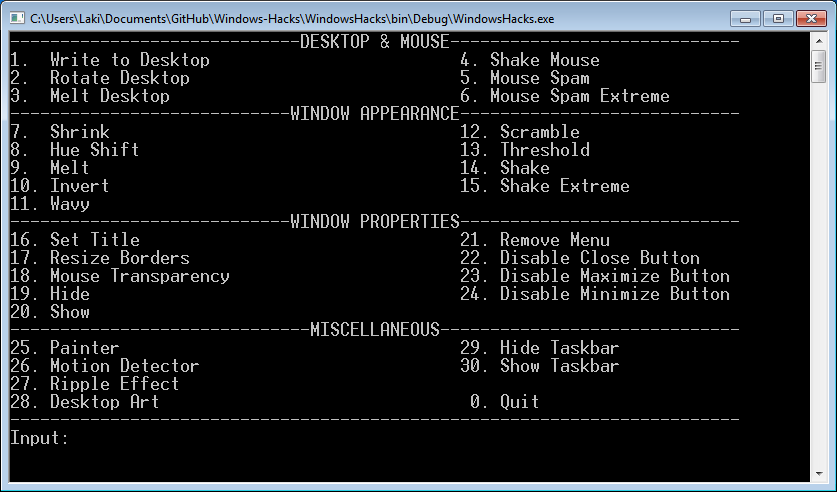
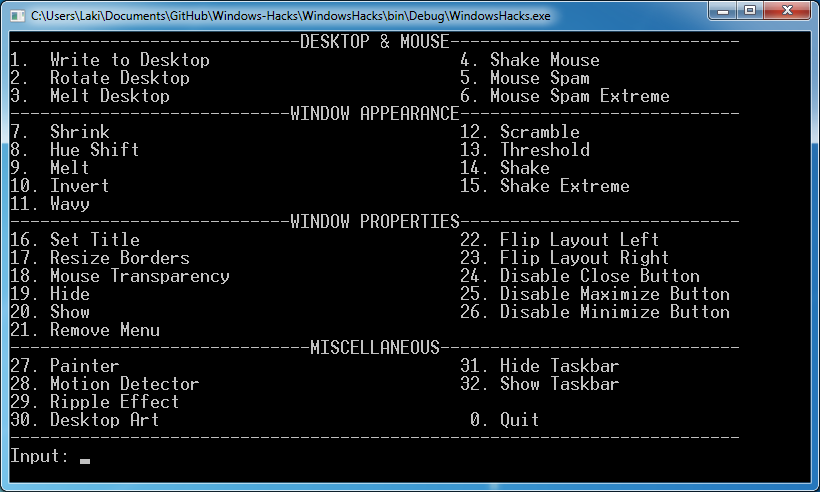
Added ability to flip the layout of a window

diff --git a/WindowsHacks/Program.cs b/WindowsHacks/Program.cs
@@ -37,15 +37,17 @@ namespace WindowsHacks
                 else if (input == 19) OtherFunctions.Hide();
                 else if (input == 20) OtherFunctions.Show();
                 else if (input == 21) OtherFunctions.RemoveMenu();
-                else if (input == 22) OtherFunctions.DisableClose();
-                else if (input == 23) OtherFunctions.DisableMaximize();
-                else if (input == 24) OtherFunctions.DisableMinimize();
-                else if (input == 25) Painter.Run();
-                else if (input == 26) MotionDetector.Run(30, MotionDetector.Quality.High);
-                else if (input == 27) RippleEffect.Run();
-                else if (input == 28) DesktopArt.Run();
-                else if (input == 29) WindowsAPI.Desktop.HideTaskBar();
-                else if (input == 30) WindowsAPI.Desktop.ShowTaskBar();
+                else if (input == 22) OtherFunctions.FlipLeft();
+                else if (input == 23) OtherFunctions.FlipRight();
+                else if (input == 24) OtherFunctions.DisableClose();
+                else if (input == 25) OtherFunctions.DisableMaximize();
+                else if (input == 26) OtherFunctions.DisableMinimize();
+                else if (input == 27) Painter.Run();
+                else if (input == 28) MotionDetector.Run(30, MotionDetector.Quality.High);
+                else if (input == 29) RippleEffect.Run();
+                else if (input == 30) DesktopArt.Run();
+                else if (input == 31) WindowsAPI.Desktop.HideTaskBar();
+                else if (input == 32) WindowsAPI.Desktop.ShowTaskBar();
                 else if (input == 0) break;
             }
         }
@@ -63,16 +65,17 @@ namespace WindowsHacks
             Console.WriteLine("10. Invert                                   15. Shake Extreme");
             Console.WriteLine("11. Wavy");
             Console.WriteLine("----------------------------WINDOW PROPERTIES----------------------------");
-            Console.WriteLine("16. Set Title                                21. Remove Menu");
-            Console.WriteLine("17. Resize Borders                           22. Disable Close Button");
-            Console.WriteLine("18. Mouse Transparency                       23. Disable Maximize Button");
-            Console.WriteLine("19. Hide                                     24. Disable Minimize Button");
-            Console.WriteLine("20. Show");
+            Console.WriteLine("16. Set Title                                22. Flip Layout Left");
+            Console.WriteLine("17. Resize Borders                           23. Flip Layout Right");
+            Console.WriteLine("18. Mouse Transparency                       24. Disable Close Button");
+            Console.WriteLine("19. Hide                                     25. Disable Maximize Button");
+            Console.WriteLine("20. Show                                     26. Disable Minimize Button");
+            Console.WriteLine("21. Remove Menu");
             Console.WriteLine("------------------------------MISCELLANEOUS------------------------------");
-            Console.WriteLine("25. Painter                                  29. Hide Taskbar");
-            Console.WriteLine("26. Motion Detector                          30. Show Taskbar");
-            Console.WriteLine("27. Ripple Effect");
-            Console.WriteLine("28. Desktop Art                               0. Quit");
+            Console.WriteLine("27. Painter                                  31. Hide Taskbar");
+            Console.WriteLine("28. Motion Detector                          32. Show Taskbar");
+            Console.WriteLine("29. Ripple Effect");
+            Console.WriteLine("30. Desktop Art                               0. Quit");
             Console.WriteLine("-------------------------------------------------------------------------");
         }
     }

diff --git a/WindowsHacks/OtherFunctions.cs b/WindowsHacks/OtherFunctions.cs
@@ -107,6 +107,18 @@ namespace WindowsHacks
             Window.Show(hWnd);
         }
 
+        public static void FlipLeft()
+        {
+            IntPtr hWnd = GetFocusedWindow();
+            Window.FlipLeft(hWnd);
+        }
+
+        public static void FlipRight()
+        {
+            IntPtr hWnd = GetFocusedWindow();
+            Window.FlipRight(hWnd);
+        }
+
         public static void RemoveMenu()
         {
             IntPtr hWnd = GetFocusedWindow();
